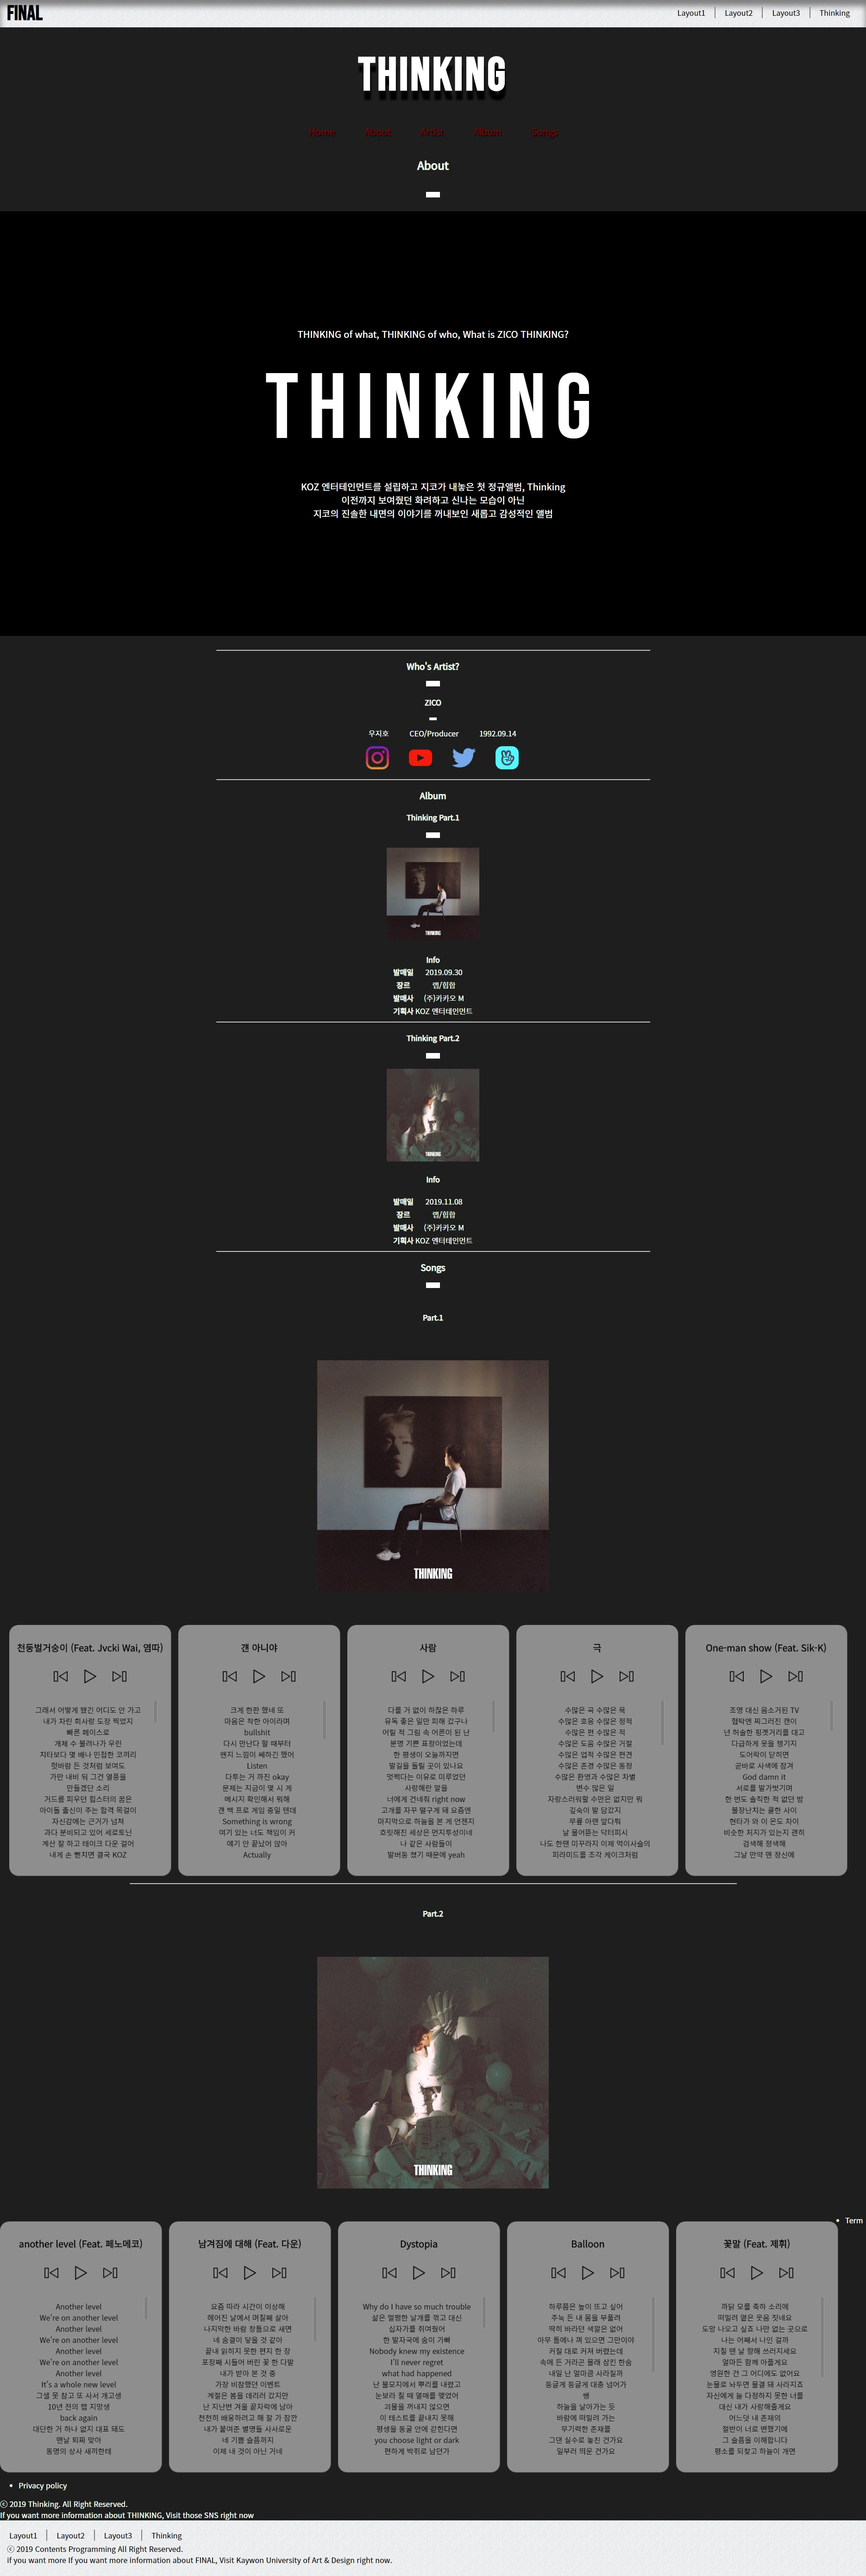
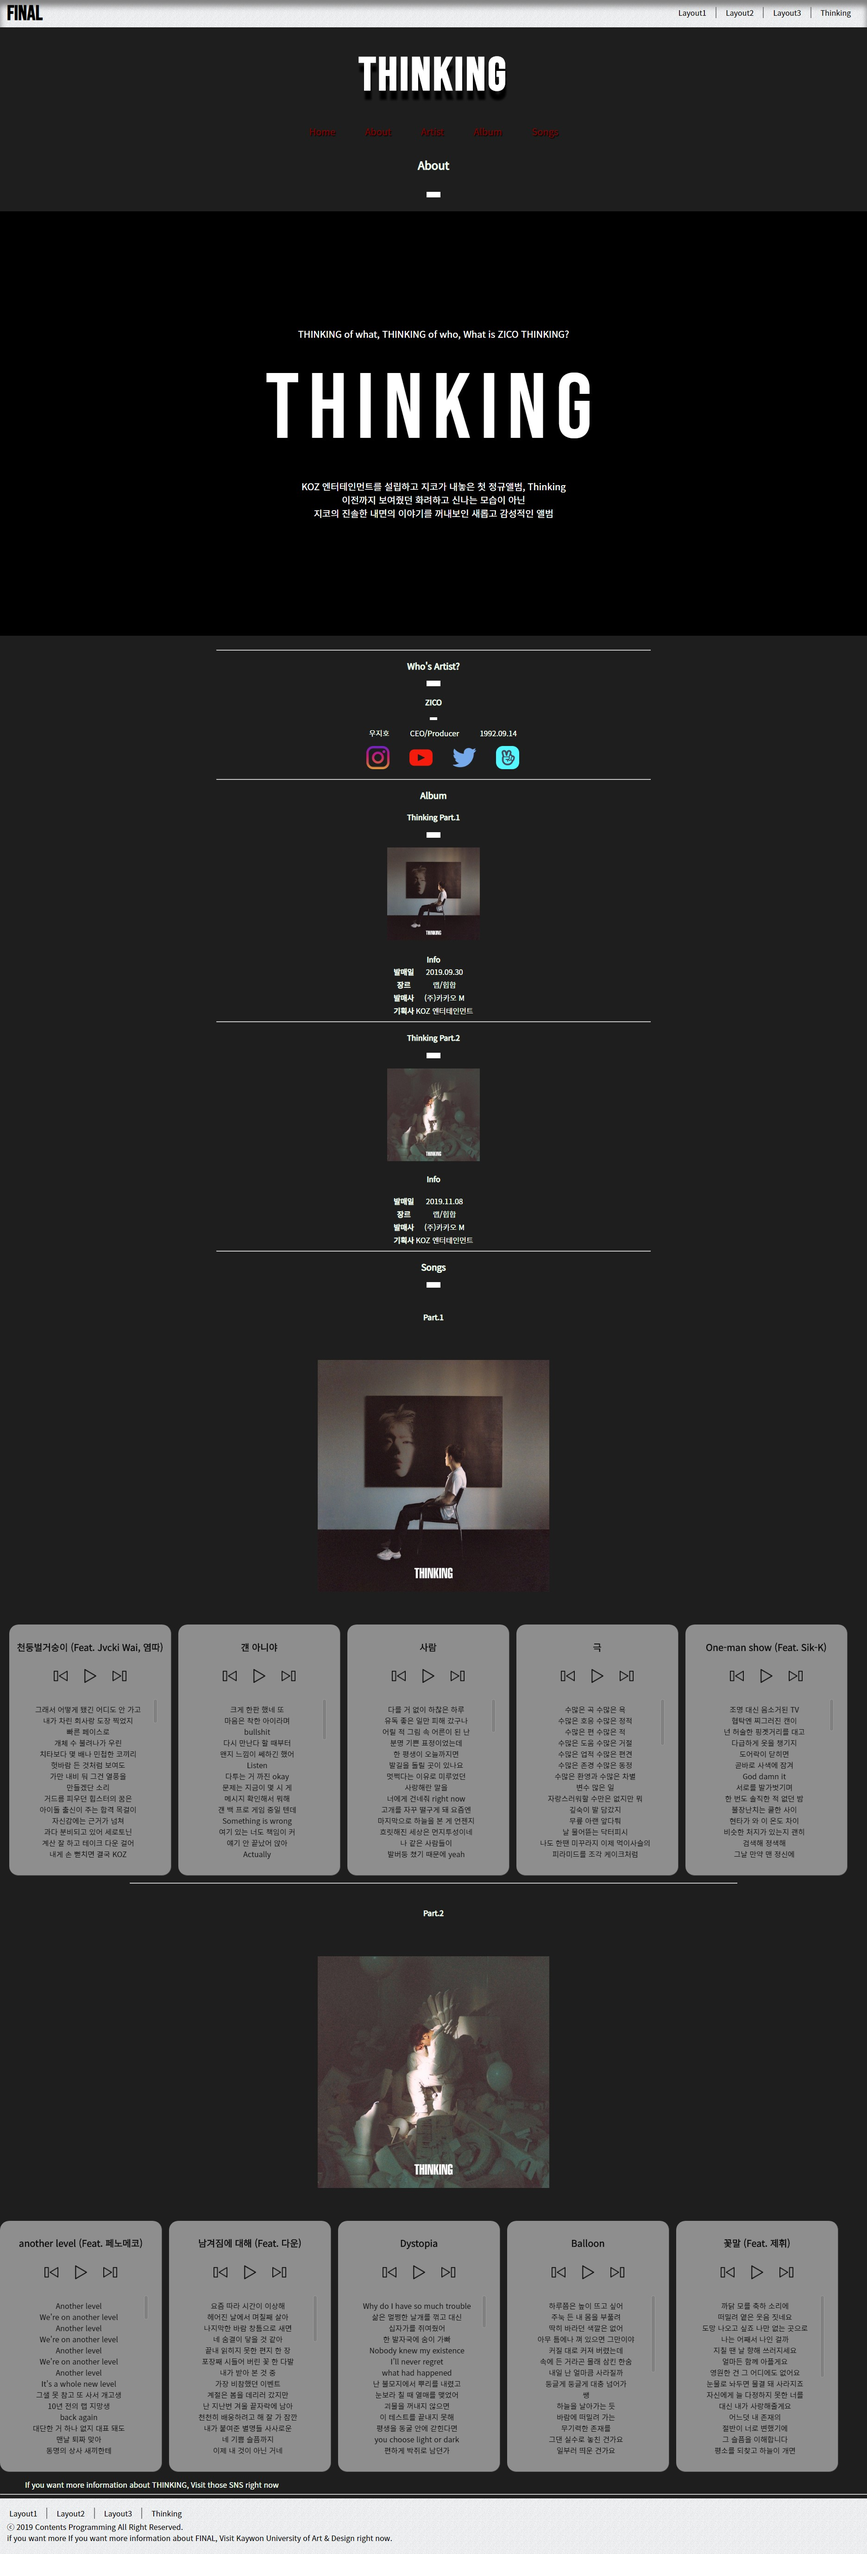
final_test

diff --git a/final_test.html b/final_test.html
@@ -524,8 +524,10 @@
             </div>
 
             <footer>
-            <div>            If you want more information about THINKING, Visit those SNS right now</div>
+            <div>&nbsp;&nbsp;&nbsp;&nbsp;&nbsp;&nbsp;&nbsp;&nbsp;&nbsp;&nbsp;&nbsp;
+            If you want more information about THINKING, Visit those SNS right now</div>
             </footer>
+            <hr align="center" style="solid 10px white; width: 100%;" padding: 10px; />
             <footer class="footer2">
                 <div>
                     <ul class="float_left_index">
